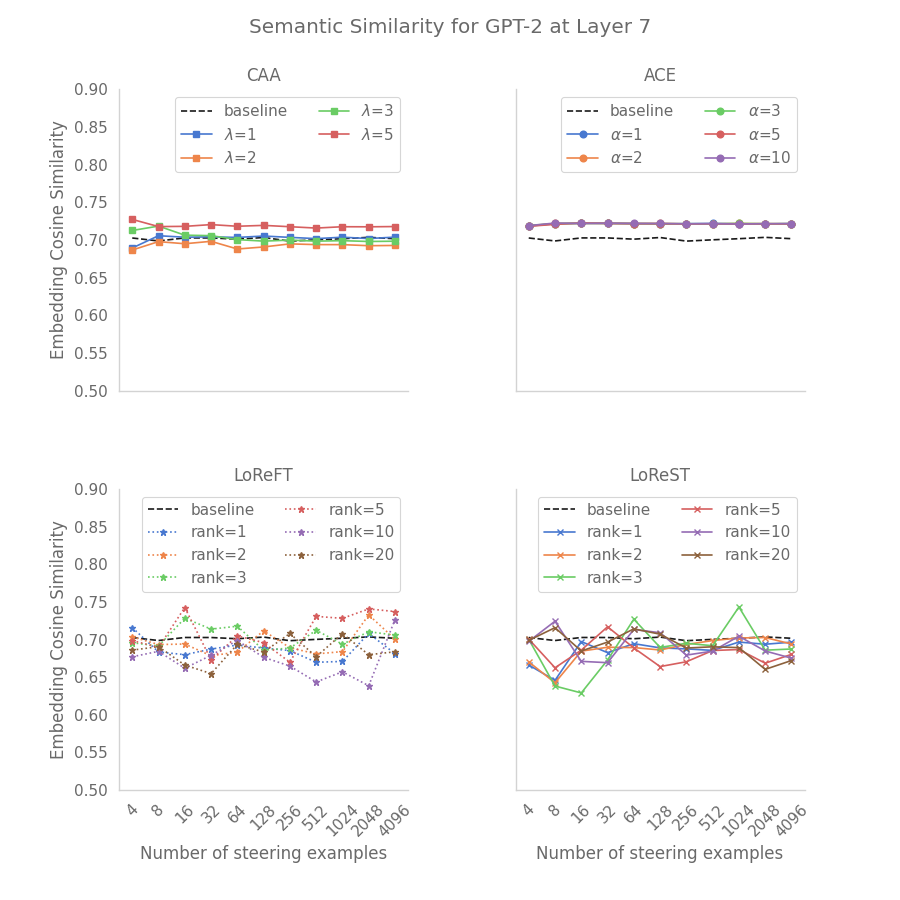
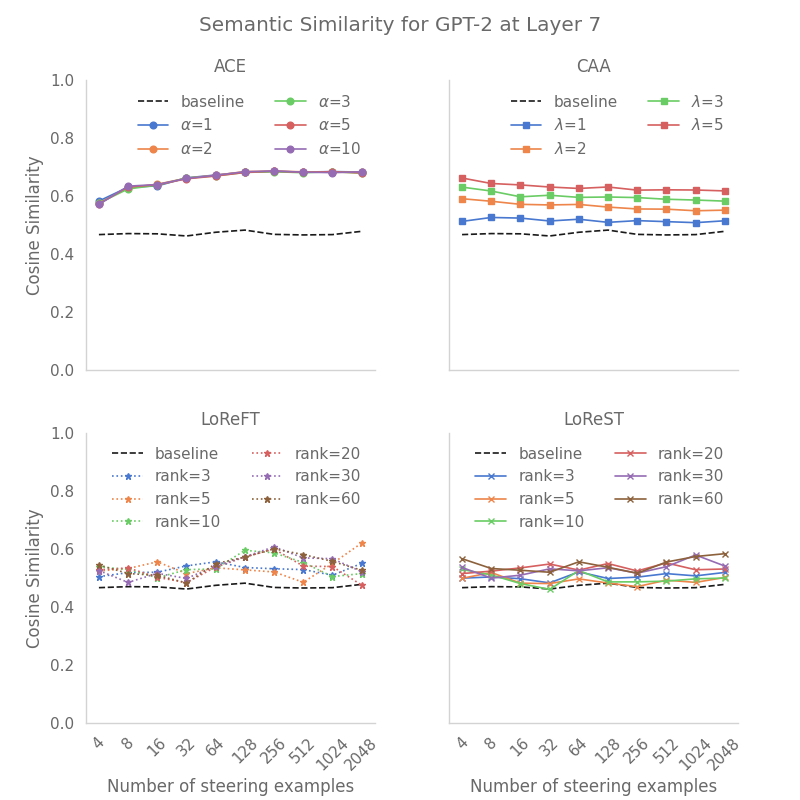
Add improved figures

diff --git a/chapters/results.tex b/chapters/results.tex
@@ -76,28 +76,53 @@ In particular
 \section{Prompt Pairs}
 \label{sec:prompt-pairs-res}
 
+\subsection{Quantitative Analysis}
+
+\subsubsection{SAE Feature Activation}
+
 \begin{figure}
     \centering
     \captionsetup{width=\textwidth}
-    \includegraphics[width=\textwidth]{figures/gpt2_7_sae.png}
+    \includegraphics[width=\textwidth]{figures/gpt2_7_target.png}
     \caption{
-        The average activation of SAE features for the set of target SAE features and unsteered SAE features.
-        From top to bottom the rows represent CAA \citep{caa}, ACE \citep{ace}, LoReFT \citep{reft} and LoReST \citep{steering-clear}.
+        The average activation of target SAE features at the model completion tokens.
+        This represents how well the adaptor positively changed the models representation, \emph{higher} values are better.
+        The y axis is a log-plot with discontinuity to demonstrate that the baseline model does not activate on the target features.
         The same range of examples is used across all adaptors.
-        The exact SAE feature values are only important in the unsteered case, where they should be 0, or as a comparison within the model parameters.
-    \Sref{sec:prompt-pairs} describes how these metrics are calculated.}
-    \label{fig:gpt-pp-sae}
+    }
+    \label{fig:gpt-pp-target}
 \end{figure}
+
+\begin{figure}
+    \centering
+    \captionsetup{width=\textwidth}
+    \includegraphics[width=\textwidth]{figures/gpt2_7_unrelated.png}
+    \caption{
+        The average activation of unrelated SAE features at the model completion tokens.
+        This represents how well the adaptor did not interfere, \emph{lower} values are better.
+        The y axis is a log-plot with discontinuity to demonstrate that some adaptors .
+        The same range of examples is used across all adaptors.
+    }
+    \label{fig:gpt-pp-unrelated}
+\end{figure}
+
+\subsubsection{The Importance of Rank}
+\label{sec:rank-res}
+
+\subsubsection{Semantic Similarity}
 
 \begin{figure}
     \centering
     \captionsetup{width=.9\textwidth}
     \includegraphics[width=\textwidth]{figures/gpt2_7_similarity.png}
     \caption{
-        The cosine similarity of distilbert \citep{distilbert} word embeddings for the generated token.
+        The cosine similarity of distilbert \citep{distilbert} sentence embeddings for the generated completion.
+        The higher the cosine similarity the better the method has performed.
         The number of steering examples is the same as \Fref{fig:steering-clear} and the cosine similarity is shared across charts.
-        Note that the y axis has been cropped to highlight the difference between models though the change is slight.
     }
     \label{fig:gpt-pp-sim}
 \end{figure}
 
+\subsection{Qualitative Analysis}
+
+\subsection{From and To}
